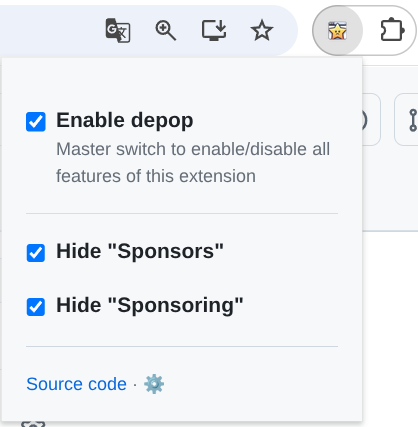
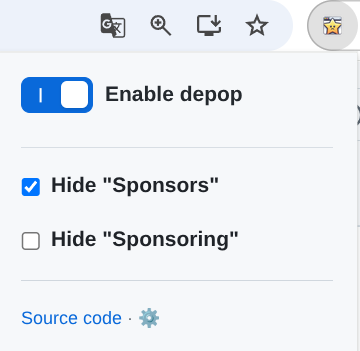
Reduce popup width and padding for a more compact and balanced UI
- Changed body width from 240px to 200px.
- Reduced padding from p-3 (16px) to p-2 (8px).

Assisted-by: Gemini CLI <gemini-cli@google.com>

diff --git a/src/popup.tsx b/src/popup.tsx
@@ -8,7 +8,7 @@ assertIsDefined<HTMLElement | null>(root);
 
 createRoot(root).render(
   <React.StrictMode>
-    <div className='p-3'>
+    <div className='p-2'>
       <App />
     </div>
   </React.StrictMode>,

diff --git a/src/popup.css b/src/popup.css
@@ -1,5 +1,5 @@
 body {
-  width: 240px;
+  width: 200px; /* Reduced from 240px */
   margin: 0;
   background-color: #f6f8fa;
 }
